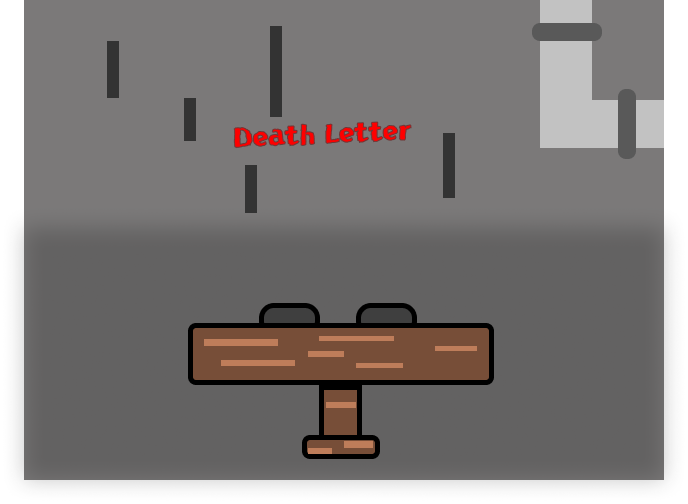
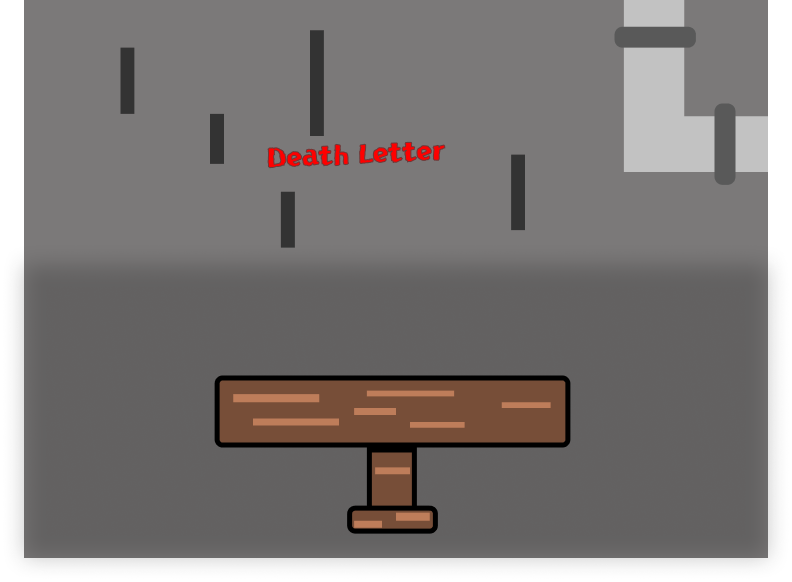
Co-authored-by: josue_tinfel <josuetinfel@users.noreply.github.com>

diff --git a/style.css b/style.css
@@ -55,42 +55,66 @@ body {
     width: 100vw;
     height: 100vh;
 }
-
+/* Player 1 ------- Tudo relacionado ao jogador 1! -----///----*/
 #Player1Bar { /* essa é a barrinha de erro do jogador 1  */
 display: flex;
 width: 12vw;
- background-color:rgb(252, 252, 252);
+ background-color:rgb(198, 198, 198);
  font-size: 30px;
  justify-content: center;
  border-radius: 1vw;
+ border-color: #242424;
 margin-top: 3vw;
 margin-left: 4vw;
 height: 30vw;
 }
 
+#Player1TypeBar {
+
+}
+/* Player 2 ------- Tudo relacionado ao jogador 2! -----//----- */
+#Player2TypeBar {
+
+}
+
 #Player2Bar {
-   
 display: flex;
 width: 12vw;
- background-color:rgb(252, 252, 252);
+background-color:rgb(198, 198, 198);
  font-size: 30px;
  justify-content: center;
  border-radius: 1vw;
 margin-top: 3vw;
+border-color: #242424;
+border-width: 5vw;
 margin-right: 4vw;
 height: 30vw;
 }
 
-#GameScreen {
-display: flex;
-background-color:rgb(43, 43, 43);
-font-size: 30px;
-justify-content: center;
-border-radius: 1vw;
-margin-top: 3vw;
-margin-right: 4vw;
-width: 40rem;
-height: 30rem;
+/* Main Game Stuff ------//------ */
+/* Main Game Stuff ------//------ */
+#GameScreen { 
+  display: flex; 
+  background-image: url('Assets/background.png'); /* Pega a imagem direto pelo CSS de fundo */
+  background-size: cover; 
+  background-position: center; 
+  background-color: rgb(43, 43, 43); 
+  font-size: 30px; 
+  
+  justify-content: space-between; /* Um boneco em cada canto */
+  align-items: flex-end;          /* Alinha os bonecos no chão da tela */
+  padding: 0 4.5rem;              /* Distância ideal para encaixar certinho nas pontas da mesa */
+  
+  border-radius: 1vw; 
+  width: 40rem; 
+  height: 30rem; 
+  position: relative;
 }
 
-/* Top e no topo, bottom é em baixo, left e esquerda e right é direita */
+#P1Chair {
+    margin-bottom: 5.5rem; /* Sobe o boneco vermelho até a altura da mesa */
+}
+
+#P2Chair {
+    margin-bottom: 5.5rem; /* Sobe o boneco azul até a altura da mesa */
+}

diff --git a/index.html b/index.html
@@ -15,6 +15,7 @@
             <h1 id="NavInfo">Lethal Letter</h1>
         </div>
     </header>
+    
     <main id="MainHandler">
         <div id="Player1Bar">
             <div>
@@ -22,14 +23,19 @@
             </div>
         </div>
         <!--MAIN GAME SCREEN-->
-        <img id="GameScreen" src="Assets/background.png" alt="Game Screen">
+                <!--MAIN GAME SCREEN-->
+        <div id="GameScreen">
+            <!-- Boneco Vermelho (Esquerda) -->
+            <img src="Assets/Chair2.png" id="P2Chair" alt="Jogador Vermelho">
             
-    </img>
-    <!------------------------------------->
+            <!-- Boneco Azul (Direita) -->
+            <img src="Assets/Chair1.png" id="P1Chair" alt="Jogador Azul">
+        </div> 
+        <!------------------------------------->
         <div id="Player2Bar">
-            
         </div>
     </main>
+    
 </body>
 <script src="script.js"></script>
 </html>

diff --git a/script.js b/script.js
@@ -1,0 +1,1 @@
+let 
